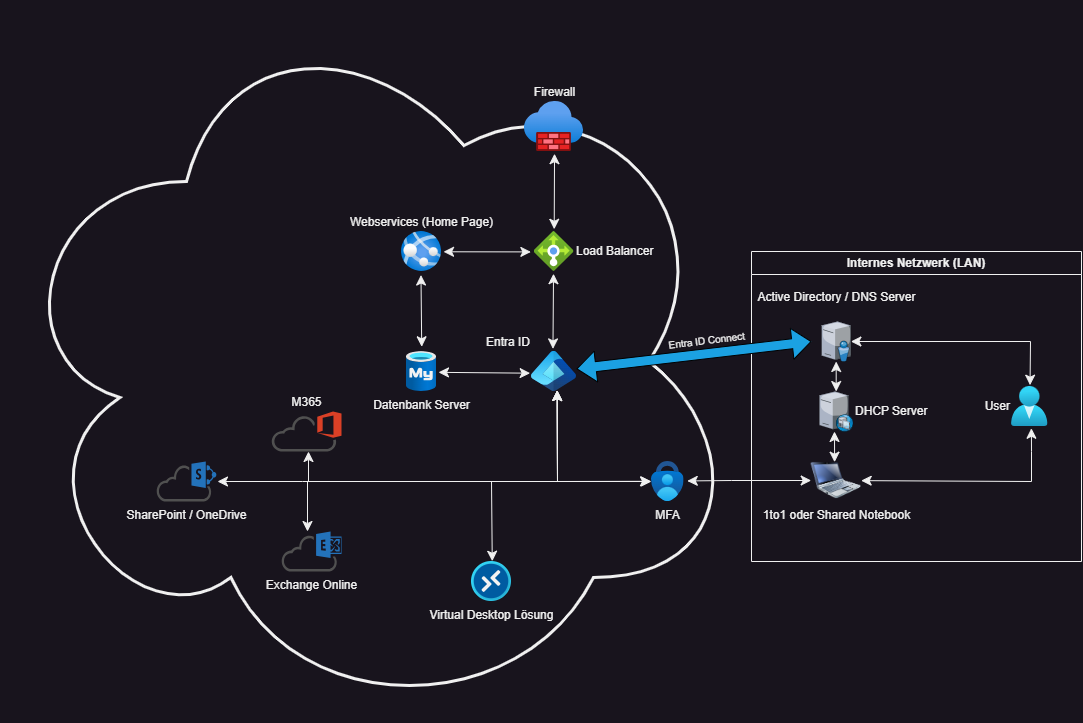
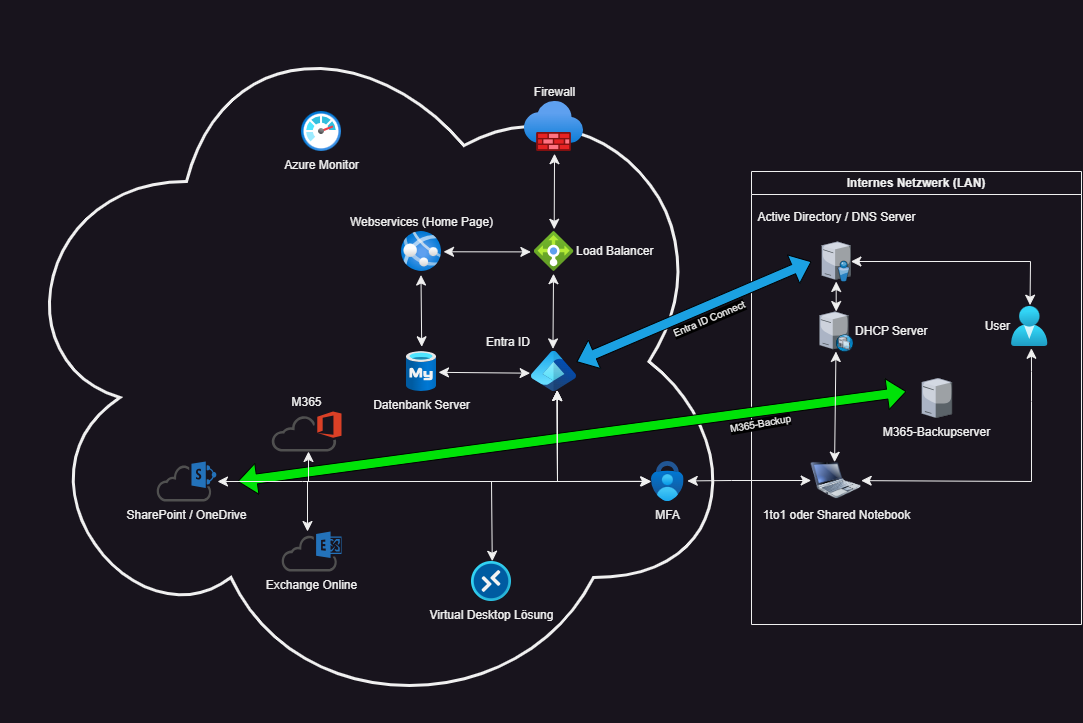
div änderungen

Changed region(s): [[0.2133, 0.3347, 0.9751, 0.6999], [0.7008, 0.2434, 0.9141, 0.3043], [0.2742, 0.1521, 0.3352, 0.2434]]

diff --git a/Praxis_Schule-Muster/03_Entscheidung/compare_ist_soll-zustand.md b/Praxis_Schule-Muster/03_Entscheidung/compare_ist_soll-zustand.md
@@ -69,6 +69,8 @@ Anhand der Nummerierung auf dem Bild "Soll-Zustand", werde ich nachfolgend erlä
 5. **On-Premise Umgebung** 
    Die On-Premise Umgebung wird weiterhin betrieben.
    Dies jedoch nur noch mit einem DHCP und AD Server, dies mehrheitlich aufgrund des WLANS, da man abklären muss, ob dies weiterhin von der Schule betrieben wird oder dies vom ISP gemacht werden könnte. 
+   Neu wird ein Microsoft 365 Backup eingerichtet, welches Alle Daten auf dem SharePoint sichert, inkl. der Teams. 
+   
    
    
    
